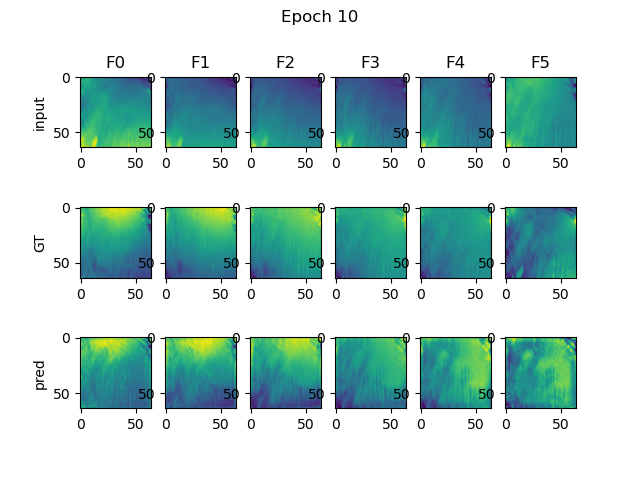
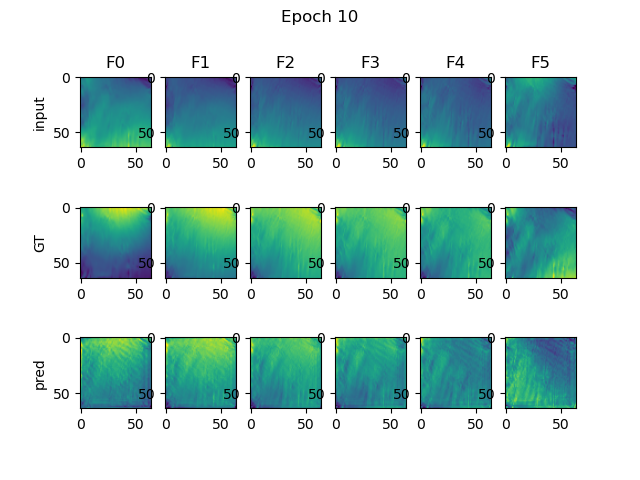
adding noise to the generator and small architectural changes

diff --git a/dcgan/model.py b/dcgan/model.py
@@ -51,6 +51,18 @@ class ConvBlock(nn.Module):
     def forward(self, x):
         return self.act(self.layers(x))
 
+class GaussianNoise(nn.Module):
+
+    def __init__(self, variance=0.01):
+        super().__init__()
+        self.variance = variance
+
+    def forward(self, x):
+        noise = t.randn_like(x) * self.variance
+        x = ((noise + x).detach() - x).detach() + x
+        return x
+
+
 
 class Generator(nn.Module):
     def __init__(self, params):
@@ -58,12 +70,14 @@ class Generator(nn.Module):
         self.params = params
         # Input is the latent vector Z.
         self.layers = nn.Sequential(
+            GaussianNoise(0.001),
             ConvBlock(
-                params["nc"], params["nc"] * 8, kernel_size=4, padding="same"
+                params["nc"], params["nc"] * 12, kernel_size=4, padding="same"
             ),
+            ConvBlock(params["nc"] * 12, params["nc"] * 8, 4, padding="same"),
             ConvBlock(params["nc"] * 8, params["nc"] * 4, 4, padding="same"),
             ConvBlock(params["nc"] * 4, params["nc"] * 2, 4, padding="same"),
-            ConvBlock(params["nc"] * 2, params["nc"], 4, padding="same"),
+            ConvBlock(params["nc"] * 2, params["nc"] * 1, 4, padding="same"),
             ConvBlock(
                 params["nc"],
                 params["nc"],

diff --git a/dcgan/train.py b/dcgan/train.py
@@ -84,7 +84,7 @@ def test(
     return {
         "val_acc_temp_disc": inc_acc_TD.item(),
         "val_acc_frame_disc": inc_acc_FD.item(),
-        # "val_mse": running_mse.item()
+        "val_mse": running_mse.item()
         # "val_acc_gen": inc_acc_G.item(),
     }
 
@@ -180,13 +180,17 @@ def train_single_epoch(
         # Update generator parameters.
         optimizerG.step()
 
+        real_loss_G = nn.MSELoss()(fake_data, y) 
+
         # Check progress of training.
         if i % 50 == 0:
             print(
                 # f"[{epoch}/{params['nepochs']}]\t"
                 f"Loss_FD: {errFD.item():.4f}\t"
                 + f"Loss_TD: {errTD.item():.4f}\t"
-                + f"Loss_G: {errG.item():.4f}\t"
+                + f"Loss_G_TD: {errG.item():.4f}\t"
+                + f"Loss_G_MSE: {real_loss_G.item():.4f}\t"
+
                 # + f"D(x): {D_x:.4f}\tD(G(z)): {D_G_z1:.14f} / {D_G_z2:.4f}"
             )
     return {
